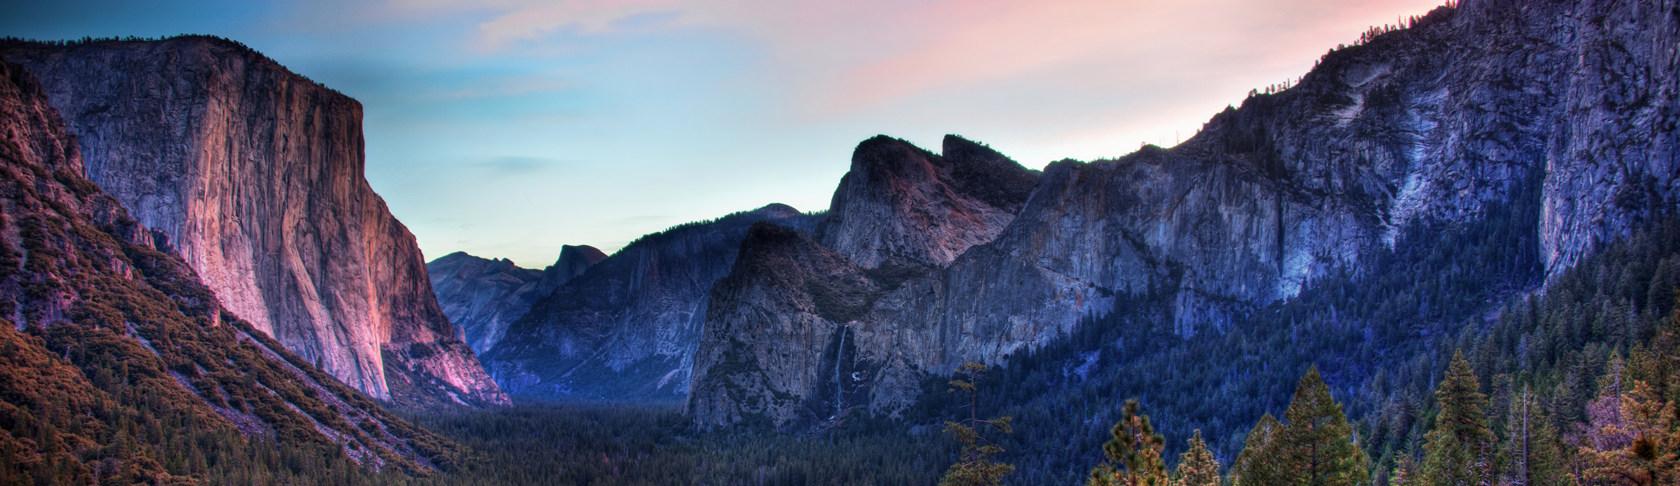
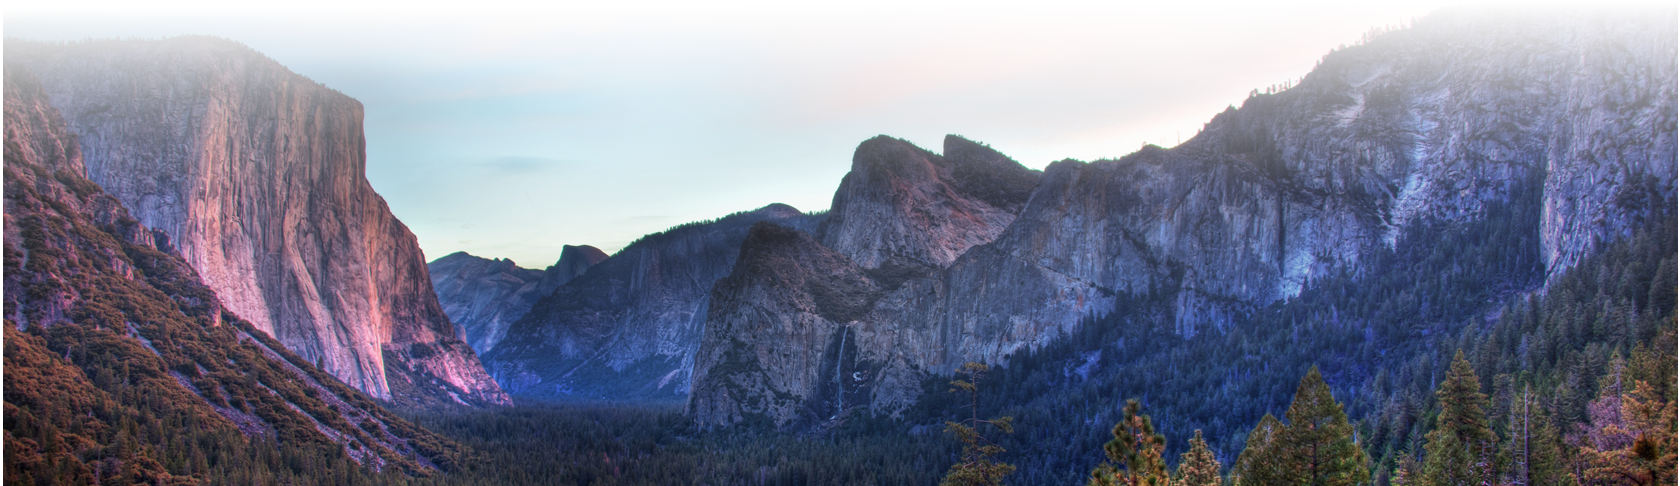
tweaks

diff --git a/app/release.html b/app/release.html
@@ -1,0 +1,37 @@
+---
+layout: default
+---
+
+
+<div id="release">
+
+<div id="crumbs">
+<ul class="breadcrumbs">
+  <li><a href="#">Home</a></li>
+  <li><a href="#">Press</a></li>
+  <li><a href="#">Releases</a></li>
+  <li class="current"><a href="#">Boxer, Schumer, Hirono Announce Legislation to Take the Threat of Default Off the Table for Good</a></li>
+</ul>
+</div>
+
+<div id="share">
+	<img src="../img/fb.jpg" align="top"/>
+	<a href="https://twitter.com/share" class="twitter-share-button">Tweet</a>
+	<div class="fb-like" data-layout="button_count" data-action="like" data-show-faces="false" data-share="false"></div>
+</div>
+
+<article>
+<center><h1>Boxer, Schumer, Hirono Announce Legislation to Take the Threat of Default Off the Table for Good</h1>
+<h2 class="subheader">Would Allow Congress to Disapprove Debt Ceiling Increases</h2>
+<h2 class="subheader">Plan Would Allow Members of Congress to Oppose Debt Ceiling Increases but Avoid Standoffs by Making it Harder to Use the Debt Ceiling as Political Leverage</h2></center>
+</center>
+<p><strong>WASHINGTON, D.C. — </strong>Today, U.S. Senators Barbara Boxer (D-CA), Charles E. Schumer (D-NY), and Mazie Hirono (D-HI) introduced new legislation – the Pay Our Bills Act – that would permanently allow Congress to disapprove debt ceiling increases, instead of approving them. The plan, based on the ‘McConnell rule’ first proposed in 2011 and employed again in the most recent agreement to end the shutdown and avoid default, would drastically reduce the chances that the debt ceiling could be used as a political weapon designed to extract policy concessions from the opposing party. Boxer, Schumer and Hirono argued that even coming close to default has serious consequences for the American economy and must be avoided.</p>
+<p><strong>“We know from recent history that even the threat of not paying our bills does serious damage to our economy,” </strong>Boxer said. <strong>“It’s time for us to put in place a straightforward process to avoid a catastrophic default on our nation’s debt. The Pay Our Bills Act gives both houses of Congress and the President a say, but sends a strong message of certainty to the markets, to our families and to the world.” </strong></p>
+<p><strong>“The way it works right now, the debt ceiling is like a ticking time bomb that threatens massive economic destruction,” </strong>said Schumer. <strong>“This bill would defuse it. By forcing Congress to disapprove debt ceiling increases, we greatly reduce the risk of default that would be a crushing blow to our economy – taking money out of middle-class pockets and destroying middle-class jobs. I hope our Republican colleagues will do the right thing and join in our efforts to limit the risk of default and provide certainty to American families and businesses.”</strong></p>
+<p>“Keeping the government running and paying our bills are core responsibilities of Congress. It is simply irresponsible to shut the government down or to threaten to default on our national debt in order to extract political concessions. The full faith and credit of the United States should not be taken hostage,” Hirono said. “This bill frees the hostage and prevents the debt limit from being used as a political football in the future. It will make sure we meet our obligations and prevent the kind of brinksmanship that the American people are sick and tired of seeing in Washington.”</strong></p>
+<p>The disapproval mechanism or ‘McConnell rule’ was temporarily included in the bipartisan Senate agreement that reopened the government and avoided default earlier this month. This same mechanism was also used to lift the debt ceiling twice following passage of the Budget Control Act. Under the new law, the President has suspended the debt ceiling until February 7, and to disapprove the increase in the debt limit Congress must pass a resolution of disapproval. If Congress passes the resolution of disapproval, the President has the option to veto the resolution. If Congress so chooses, it may attempt to override the veto with a two-thirds majority. However, subsequent increases in the debt ceiling will still have to be approved by Congress.</p>
+<p>Boxer, Schumer, and Hirono are pushing for the ‘McConnell rule’ to be made permanent for all future increases in the debt limit, requiring that if Congress chooses to consider a resolution of disapproval it does so within 15 days after the President proposes an increase. When the country is close to exhausting its borrowing authority, the President may choose to lift the debt ceiling, which would trigger the resolution of disapproval process. The Senators argue that the proposal still gives Congress the authority to oppose an increase, but makes it much less likely that the debt ceiling can be used by either party to pursue policy changes on unrelated issues.</p>
+<center>###</center>
+</article>
+
+</div>

diff --git a/app/_scss/main.scss b/app/_scss/main.scss
@@ -3,37 +3,31 @@
 @import "bourbon";
 
 body {
-  height: 100%;
-  $experimental-support-for-svg: true;
-  @include background(linear-gradient(white, #FDF4D5));
-  //background-image: url("/img/stripe.png");
-  background-repeat:no-repeat;
-  background-attachment: fixed;
 }
 
-#stripe {
-  //@include grid-row();
-  background-image: url("/img/stripe.png");
-  width: 100% !important;
-  height: 360px;
-  
+#canvas {
+  @include grid-row();
+  max-width: 100%;
+  @include background-image(url("/img/stripe.png"), linear-gradient(white, #FDF4D5));
+  background-repeat: no-repeat;
+  background-position: center bottom;
 }
 
 #page {
-  @include grid-row();
+  @include grid-row($behavior:nested);
   box-shadow: 1px 3px 25px black;
   border-radius: 6px;
-  padding-top: 50px;
   background-color: #ffffff;
+  padding-top: 52px;
 }
 
 #sitenav {
-  @extend .fixed;
+   @extend .fixed;
   .top-bar {box-shadow: 0px 1px 15px black; background: #99B2B7}
   .top-bar-section li a:not(.button) {background: #99B2B7; font-size: 1em}
   .top-bar-section li a:not(.button):hover {background: #809499}
   .top-bar-section ul {background: #99B2B7}
-  .top-bar-section ul.left li a{padding: 0 5px}
+  ul.left li {padding: 8px 0px 0px 0px}
   
   .top-bar .name {text-shadow: 0px 1px 15px #222222}
   .top-bar li.search{margin-top: 5px}
@@ -60,3 +54,28 @@ body {
   .orbit-prev, .orbit-next {top:25%}
 }
 
+.homebuckets {
+  @include grid-row($behavior:nested);
+  @include block-grid(3);
+  
+}
+
+#crumbs {
+
+  .breadcrumbs { @extend .hide-for-small;}
+  }
+
+#share {
+  @extend .hide-for-small;
+  text-align: left;
+  }
+  
+#release { 
+  h1 {font-size: 2em}
+  h2 {font-size: 1.5em}
+  }
+
+article { 
+  @include grid-column($columns:10, $center:true);
+  .h1 {font-size: 2em};
+  }

diff --git a/app/index.html b/app/index.html
@@ -18,4 +18,83 @@ layout: default
               </li>
        </ul>
     
-</div>    
+</div>
+
+<ul class="homebuckets">
+	<li> <h4>Press Releases</h4>
+		<table>
+  <thead>
+    <tr>
+      <th>Date</th>
+      <th>Title</th>
+    </tr>
+  </thead>
+  <tbody>
+    <tr>
+      <td>11.12.13</td>
+      <td>Senator Boxer issues a release about a topic</td>
+    </tr>
+    <tr>
+      <td>11.12.13</td>
+      <td>Senator Boxer issues a release about a topic</td>
+    </tr>
+    <tr>
+       <td>11.12.13</td>
+      <td>Senator Boxer issues a release about a topic</td>
+    </tr>
+  </tbody>
+</table>
+	</li>
+	
+		<li> <h4>Press Releases</h4>
+		<table>
+  <thead>
+    <tr>
+      <th>Date</th>
+      <th>Title</th>
+    </tr>
+  </thead>
+  <tbody>
+    <tr>
+      <td>11.12.13</td>
+      <td>Senator Boxer issues a release about a topic</td>
+    </tr>
+    <tr>
+      <td>11.12.13</td>
+      <td>Senator Boxer issues a release about a topic</td>
+    </tr>
+    <tr>
+       <td>11.12.13</td>
+      <td>Senator Boxer issues a release about a topic</td>
+    </tr>
+  </tbody>
+</table>
+	</li>
+	
+		<li> <h4>Press Releases</h4>
+		<table>
+  <thead>
+    <tr>
+      <th>Date</th>
+      <th>Title</th>
+    </tr>
+  </thead>
+  <tbody>
+    <tr>
+      <td>11.12.13</td>
+      <td>Senator Boxer issues a release about a topic</td>
+    </tr>
+    <tr>
+      <td>11.12.13</td>
+      <td>Senator Boxer issues a release about a topic</td>
+    </tr>
+    <tr>
+       <td>11.12.13</td>
+      <td>Senator Boxer issues a release about a topic</td>
+    </tr>
+  </tbody>
+</table>
+	</li>
+	
+	
+</ul>

diff --git a/app/_includes/sitenav.html b/app/_includes/sitenav.html
@@ -3,18 +3,20 @@
 <div id="sitenav">
 	
 	<nav class="top-bar" data-topbar="">
-		<ul class="title-area">
-    	<li class="name"> <h1> <a href="../">{{ site.name }}</a> </h1></li>
-    	<li class="toggle-topbar menu-icon"><a href="#"><span></span></a></li>
-    </ul>
 
-  <section class="top-bar-section">
+
+  
   	
   	<!--left sitenav section-->
   	<ul class="left">
-  		<li><a href="http://senate.gov"><img src="./img/sa.png"></a></li>
-  		<li><a href="http://ca.gov"><img src="./img/ca.png"></a></li>
+  		<li><a href="http://senate.gov"><img src="./img/sa.png"></a> <a href="http://ca.gov"><img src="./img/ca.png"></a></li>
   	</ul>
+  	
+  		<ul class="title-area">
+    		<li class="name"> <h1> <a href="../">{{ site.name }}</a> </h1></li>
+    		<li class="toggle-topbar menu-icon"><a href="#"><span></span></a></li>
+    	</ul>	
+  	<section class="top-bar-section">
     <!-- right navsite section -->
     <ul class="right">
       <li class="has-dropdown"> <a href="#">Contact</a>

diff --git a/app/_scss/_settings.scss b/app/_scss/_settings.scss
@@ -1072,7 +1072,7 @@ $topbar-title-font-size: rem-calc(24px);
 // $topbar-divider-border-top: solid 1px darken($topbar-bg-color, 10%);
 
 // Sticky Class
-// $topbar-sticky-class: ".sticky";
+$topbar-sticky-class: ".sitenav";
 // $topbar-arrows: true; //Set false to remove the triangle icon from the menu item
 
 //

diff --git a/app/_layouts/default.html b/app/_layouts/default.html
@@ -18,13 +18,12 @@
 	</head>
 	
 	<body>
-		<div id="stripe">
+		<div id="canvas">
  		{% include sitenav.html %}	
  		<div id="page">
   		{{ content }}
   		</div>
-    	</div>
-
+		</div>
 
 		<!-- build:js(app) /js/script.js -->
 		<script src="./_bower_components/jquery/jquery.js"></script>
